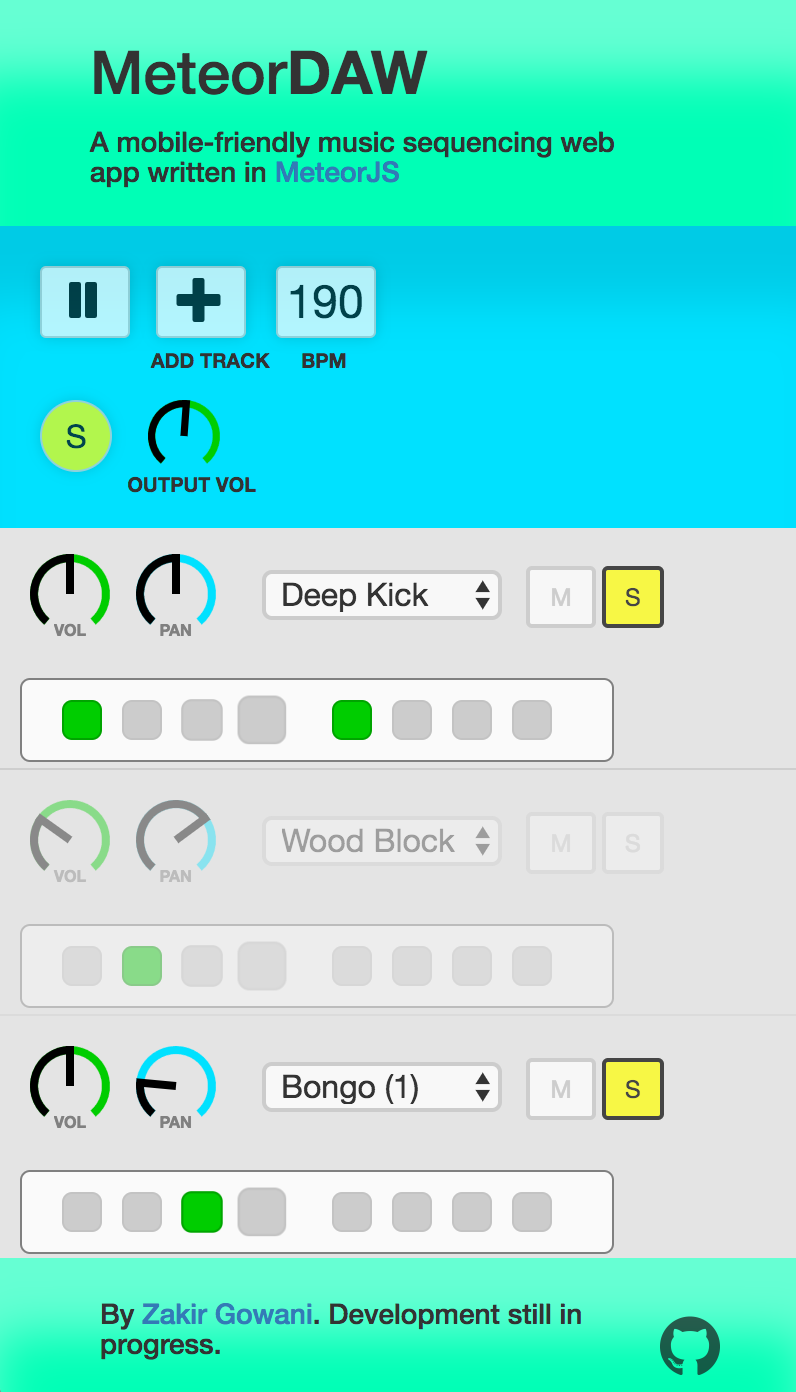
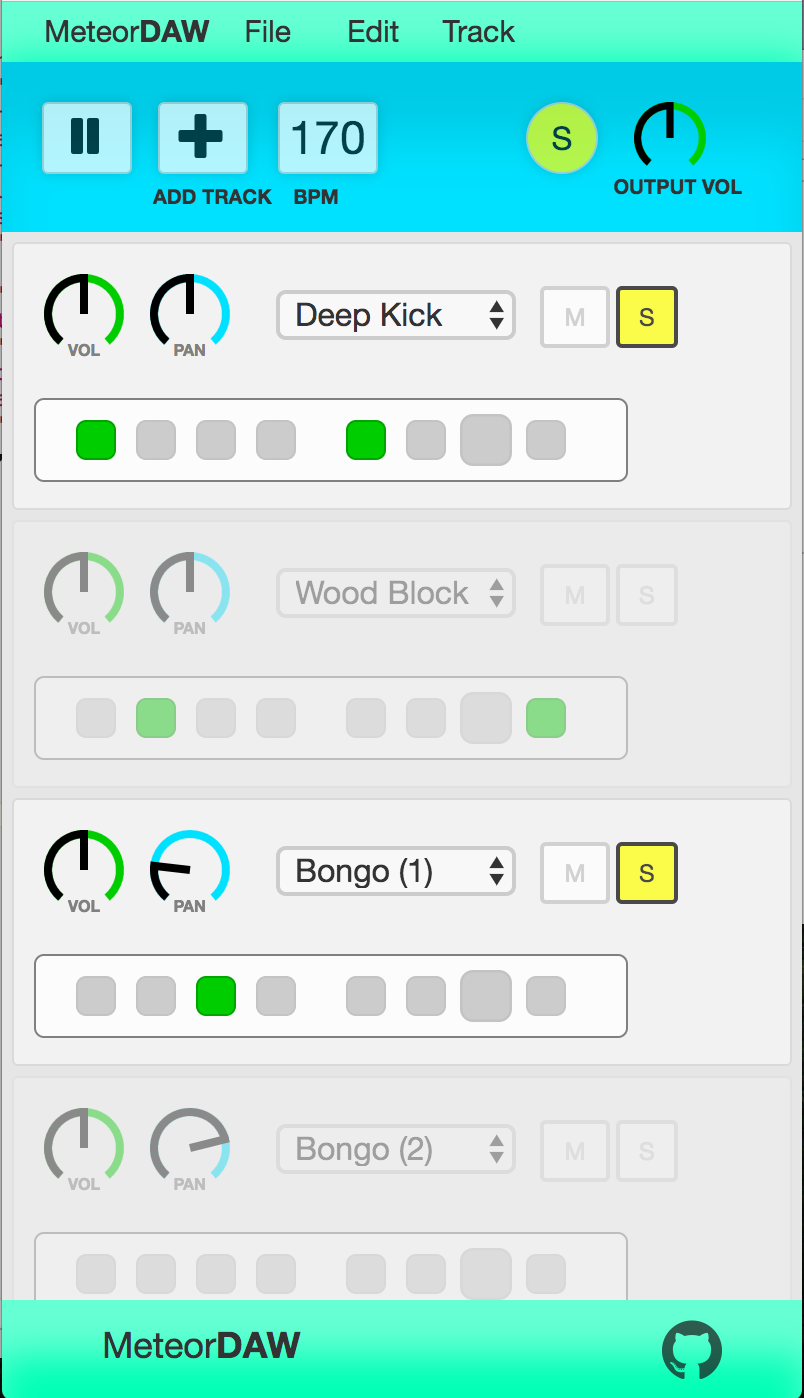
UI updates and goal revisions

diff --git a/client/controlFrame.html b/client/controlFrame.html
@@ -2,7 +2,7 @@
     <div class="page-wrapper">
         <div class="container-fluid content-wrapper">
             <header class="row primary-color">
-                <div class="row" id="title-bar">
+                <div class="row primary-color" id="title-bar">
                     <span class="dropdown">
                         <button type="button" class="app-menu-button dropdown-toggle" id="app-menu-button" 
                             data-toggle="dropdown" aria-haspopup="true" aria-expanded="false"> Meteor<b>DAW</b></button>
@@ -33,7 +33,7 @@
                     </span>
                 </div> 
                 <div class="row secondary-color" id="control-bar">
-                    <div class="col-sm-6">
+                    <div class="col-sm-6 col-xs-7">
                         {{#if inPlayMode}}
                             <button class="large-button" id="pause">
                                 <span class="glyphicon glyphicon-pause"></span>
@@ -50,7 +50,7 @@
                     
                         <input class="header-input-box" id="tempo" value="120"/><label class="header-input-label" for="tempo">BPM</label>
                     </div>
-                    <div class="col-sm-6 sm-align-right">
+                    <div class="col-sm-6 sm-align-right col-xs-5">
                         <button class="large-button {{#if inSoloMode}}active{{else}}inactive{{/if}}" id="solo-mode-toggle">
                             S
                         </button>

diff --git a/client/main.css b/client/main.css
@@ -10,7 +10,7 @@ body {
 }
 
 .page-wrapper {
-    background-color:#e4e4e4;
+    background-color:#e6e6e6;
     min-height:100%;
     min-width:100%;
 }
@@ -44,9 +44,16 @@ footer {
 
 #title-bar {
     height:30px;
-    padding:0px 40px;
+    padding:0px 15px;
     width:100%;
     display:block;
+    position:fixed;
+    top:0;
+    right:0;
+    margin:0;
+    margin-bottom:30px;
+    z-index:3;
+    width:100%;
 }
 
 #title-bar h1 {
@@ -88,12 +95,11 @@ a {
 
 .primary-color {
     background-color:#00FFB6;
-    -webkit-box-shadow: 0px 40px 40px -2px rgba(255, 255, 255, .4) inset;
-            box-shadow: 0px 40px 40px -2px rgba(255, 255, 255, .4) inset;
+    -webkit-box-shadow: 0px 30px 30px -2px rgba(255, 255, 255, .4) inset;
+            box-shadow: 0px 30px 30px -2px rgba(255, 255, 255, .4) inset;
 }
 
 .secondary-color {
-/*     background-color:white; */
     background-color:#00E1FF;
     -webkit-box-shadow: 0px 40px 40px -2px rgba(0, 0, 0, .1) inset;
             box-shadow: 0px 40px 40px -2px rgba(0, 0, 0, .1) inset;
@@ -168,6 +174,6 @@ a:active, a:focus, a:hover {
 
 @media screen and (min-width:767px) {
     #title-bar {
-        padding:0px 55px;
+        padding:0px 30px;
     }
 }

diff --git a/client/track.css b/client/track.css
@@ -3,11 +3,11 @@
     -webkit-transition:opacity .2s, background-color .1s;
             transition:opacity .2s, background-color .1s;
     position:relative;
-    border-bottom: 1px solid rgba(0,0,0,.1);
-    /* box-shadow: inset 0 -2px 0px rgba(255,255,255,.4); */
-    width:100%;
-    padding:0px;
-    margin:0px auto 0 auto;
+    border: 1px solid rgba(0,0,0,.1);
+    border-radius:3px;
+    padding:0 0 10px 0px;
+    margin:5px;
+    background:#f2f2f2;
 }
 
 h2.sound-name {
@@ -77,7 +77,7 @@ table.sequencer-table td:nth-child(4n+0) {
     top:30px;
     right:5px;
     margin:0px 10px;
-    z-index:2;
+    z-index:1;
     position:absolute;
     -webkit-transition: color .2s;
             transition: color .2s;
@@ -190,16 +190,8 @@ button.sequence-step.time-active {
     opacity:0.4;
 }
 
-@media screen and (min-width:480px) and (max-width:767px) {
-    .track {
-        width:97%;
-        padding:0;
-    }
-}
-
 @media screen and (min-width:767px) {
-    .track {
-        width:96%;
-        padding:0;
+    .track-controls {
+        padding:0 0 0 35px;
     }
 }

diff --git a/client/controlFrame.css b/client/controlFrame.css
@@ -1,8 +1,13 @@
 #control-bar {
     width:100%;
-    padding:20px 5px 5px 15px;
+    padding:20px 5px 5px 0px;
     margin:auto;
     z-index:2;
+    position:fixed;
+    top:30px;
+    right:0;
+    height:85px;
+    margin-bottom:60px;
 }
 
 .large-button {
@@ -38,7 +43,7 @@
     height:36px;
     width:50px;
     text-align:center;
-    margin:0 5px;
+    margin:0 0 0 5px;
     position:relative;
     top:-1px;
     -webkit-transition: background-color .2s;
@@ -89,8 +94,8 @@
 } 
 
 .sm-align-right {
-    text-align:left;
-    margin-top:30px;
+    text-align:right;
+    /* margin-top:30px; */
 }
 
 .menu-button, .app-menu-button {
@@ -100,7 +105,7 @@
     width:50px;
     height:30px;
     border-radius: 0;
-    font-size:13px;
+    font-size:15px;
 }
 
 .app-menu-button {
@@ -129,6 +134,10 @@
     }
     #control-bar {
         width:100%;
-        padding:20px 30px 5px 30px;
+        padding:20px 30px 5px 15px;
     }
+    .menu-button, .app-menu-button {
+        font-size:13px;
+    }
+
 }

diff --git a/client/application.js b/client/application.js
@@ -37,9 +37,6 @@ Template.application.onRendered(function(){
         "function tempoStep(){timeoutID=setTimeout(function(){postMessage('tempoStep'),tempoStep()},100)}var timeoutID=0;onmessage=function(a){'start'==a.data?timeoutID||tempoStep():'stop'==a.data&&(timeoutID&&clearTimeout(timeoutID),timeoutID=0)};"
         ])
     schedulingWorker = new Worker(window.URL.createObjectURL(workerBlob));
-    // schedulingWorker.onmessage = function(e) {
-//         schedule();
-//     };
 });
 
 Template.application.helpers({

diff --git a/client/track.js b/client/track.js
@@ -1,7 +1,6 @@
 // Returns true if track playback has been temporarily disabled by solo/mute
 trackIsDisabled = function(selectedSound) {
-    inSoloModeTracker.depend();
-    return selectedSound.muted || ( !selectedSound.soloed && inSoloMode );
+    return selectedSound.muted || ( inSoloMode && !selectedSound.soloed );
 }
 
 Template.track.onRendered(function(){

diff --git a/client/application.css b/client/application.css
@@ -1,9 +1,10 @@
 #application {
     padding:0;
+    padding-top:115px;
     text-align:center;
     height:100%;
     width:100%;
-    margin:-2px auto 0px auto;
+    margin:0px auto 0px auto;
     overflow:auto;
 }
 

diff --git a/README.md b/README.md
@@ -5,12 +5,10 @@
 ##### Screenshots:
 <img src="./public/screenshots/desktopScreenshot.png" alt="App Screenshot on Desktop" width="550"/> <img src="./public/screenshots/mobileScreenshot.png" alt="App Screenshot on Mobile" width="200"/>
 
-##### Features:
-- sequencer functionality: program rhythms w/ presets and user-uploaded sounds
-- responsive layout, works well on iPhone 6 (375px width)
-- track controls: mute, solo, volume/pan knobs, sequencer steps, sound selection
-- master controls: play, pause, add new tracks, adjust tempo, master volume
-- sequences can be bounced and exported to .wav files
+##### Features (version 0.1):
+- Sequencer functionality: program rhythms w/ presets and user-uploaded sounds
+- Responsive layout, works well on iPhone 6 (375px width)
+- Sequences can be bounced and exported to .wav files
 
 ##### Build instructions:
 Install <a href="https://www.meteor.com/" target="_blank">Meteor</a> and then run
@@ -22,17 +20,17 @@ meteor
 You may be prompted to install additional packages. 
 Once the app is running, navigate to http://localhost:3000/ in your browser.
 
-##### Upcoming features for release 1.0:
-- a dynamic grid to allow sequencing with eighth, 16th, and 32nd notes
-- sequence presets
+##### Upcoming features for version 0.1:
+- A dynamic grid to allow sequencing with eighth, 16th, and 32nd notes
+- Sequence presets
 
-##### Feature goals for v2.0:
-- a midi-compatible piano roll
-- allow for user-uploaded audio tracks with preview waveforms
-- more precise audio scheduling to avoid timing issues during paints
+##### Feature goals for version 0.2:
+- A midi-compatible piano roll
+- Allow for user-uploaded audio tracks with preview waveforms
+- More precise audio scheduling to avoid timing issues during paints
 - VST-like track effects with the Web Audio API and <a href="http://sox.sourceforge.net/Docs/FAQ" target="_blank">SoX</a>
-- an undo button, a redo button, an undo history with human-readable action descriptions
-- keyboard shortcuts
+- An undo button, a redo button, an undo history with human-readable action descriptions
+- Keyboard shortcuts
 
 Project started 11/29/2016.
 
